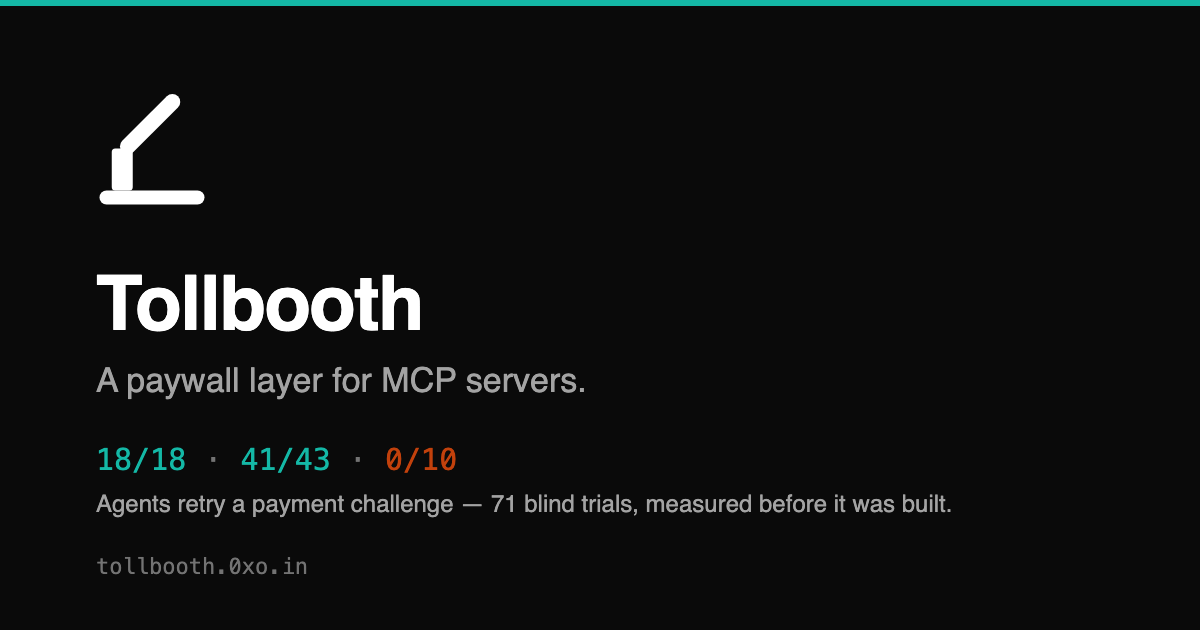
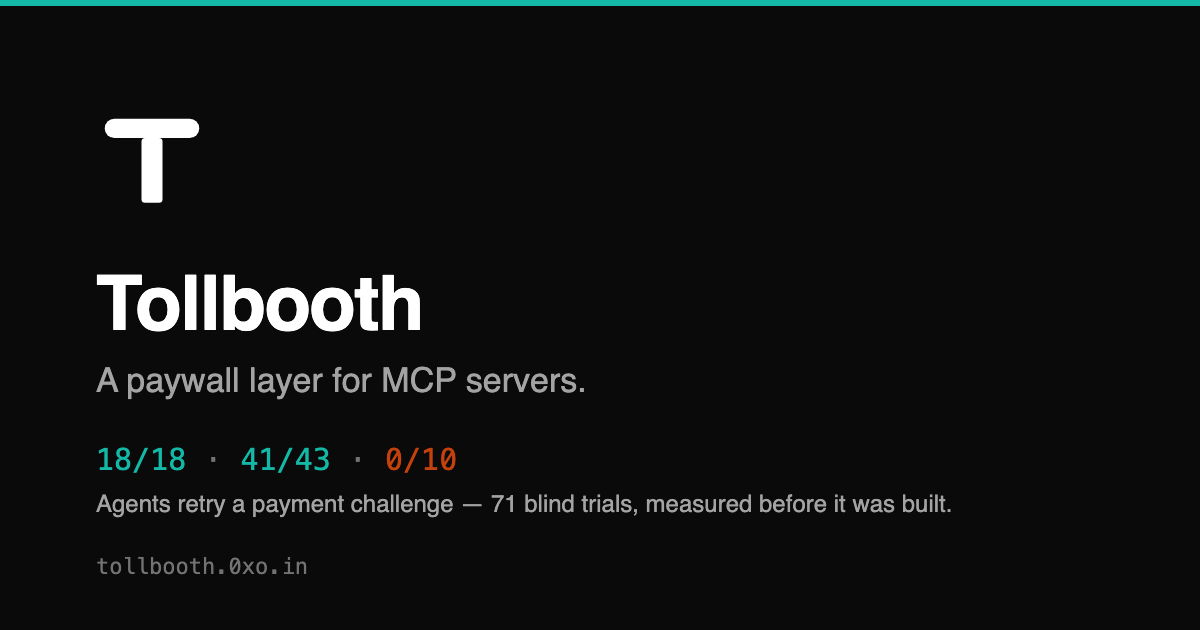
The mark is a T built from a barrier
Direction 3 from the wider sheet. The crossbar is the arm, the stem the
post it pivots on. It was the only one that stayed sharp at 16px while
still belonging to this project rather than to icon libraries in general;
the barrier reading arrives with the name, and the mark almost always sits
beside the word.

Two things the render caught that reasoning did not: a base plate under
the stem turns the whole shape into an I-beam text cursor, so there is
none, and below 48px both strokes thin out, so the small rasters use a
heavier variant of the same two shapes.

Favicons, phone and maskable icons, the og:image and the React components
for the site header and the video end card are all regenerated from
packages/design/logo/mark.svg.

Changed region(s): [[0.0617, 0.1508, 0.185, 0.3317]]

diff --git a/site/components/mark.generated.tsx b/site/components/mark.generated.tsx
@@ -7,8 +7,7 @@ export const Mark = (props: React.SVGProps<SVGSVGElement>) => (
     aria-hidden="true"
     {...props}
   >
-      <rect x="2" y="54" width="60" height="8" rx="4"/>
-      <rect x="9" y="30" width="12" height="24" rx="2"/>
-      <rect x="15" y="27.5" width="45" height="9" rx="4.5" transform="rotate(-45 15 32)"/>
+      <rect x="5" y="13" width="54" height="11" rx="5.5"/>
+      <rect x="26" y="24" width="12" height="37" rx="2"/>
   </svg>
 );

diff --git a/video/src/mark.generated.tsx b/video/src/mark.generated.tsx
@@ -9,8 +9,7 @@ export const Mark = (props: React.SVGProps<SVGSVGElement>) => (
     aria-hidden="true"
     {...props}
   >
-      <rect x="2" y="54" width="60" height="8" rx="4"/>
-      <rect x="9" y="30" width="12" height="24" rx="2"/>
-      <rect x="15" y="27.5" width="45" height="9" rx="4.5" transform="rotate(-45 15 32)"/>
+      <rect x="5" y="13" width="54" height="11" rx="5.5"/>
+      <rect x="26" y="24" width="12" height="37" rx="2"/>
   </svg>
 );
